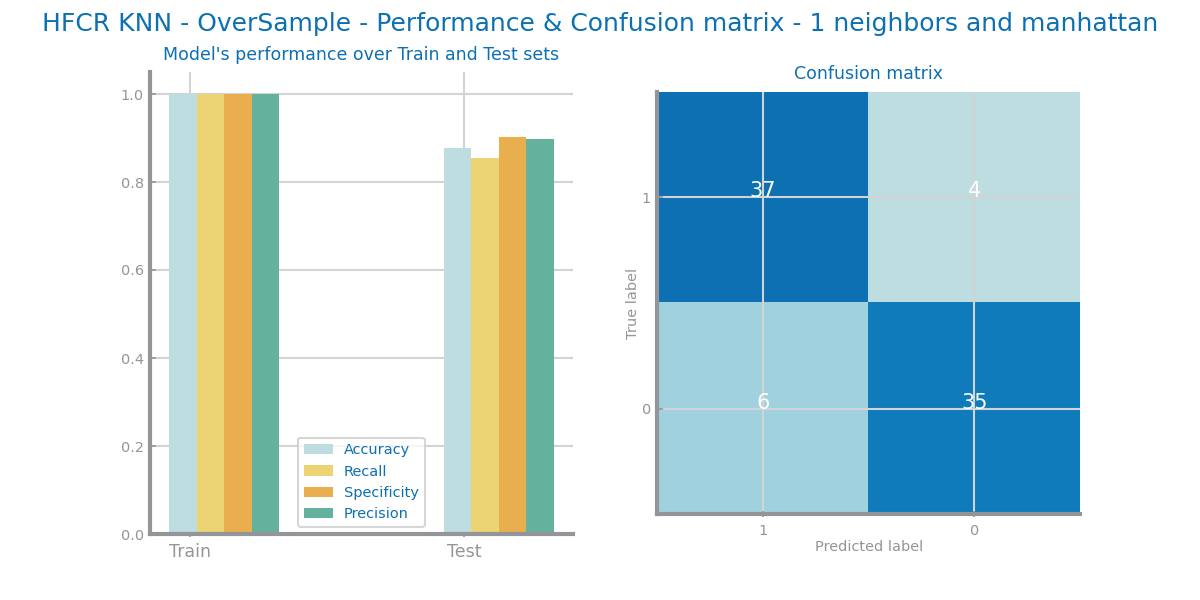
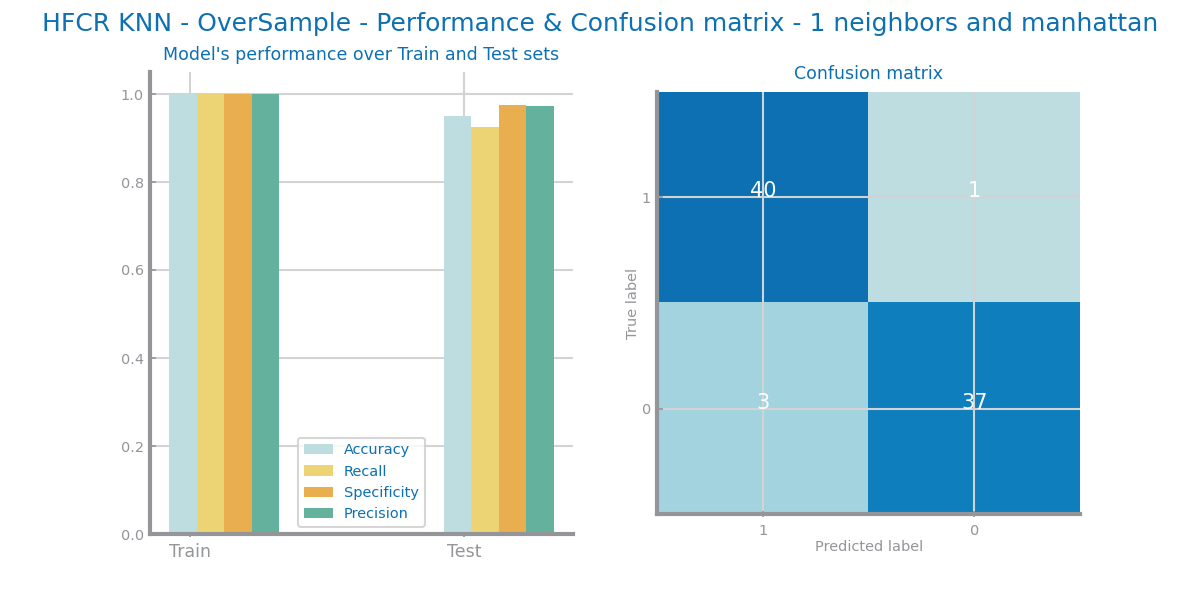
HFCR KNN feature selection

diff --git a/Labs/Lab05/HFCR_knn-treated.py b/Labs/Lab05/HFCR_knn-treated.py
@@ -9,6 +9,7 @@ from sklearn.impute import SimpleImputer
 from sklearn.neighbors import KNeighborsClassifier
 from sklearn.model_selection import StratifiedKFold
 from sklearn.preprocessing import StandardScaler
+from subprocess import call
 
 
 graphsDir = './Results/'
@@ -17,69 +18,77 @@ if not os.path.exists(graphsDir):
 
 data: pd.DataFrame = pd.read_csv('../../Dataset/heart_failure_clinical_records_dataset.csv')
 datas = prepfunctions.prepare_dataset(data, 'DEATH_EVENT', True, True)
+featured_datas = prepfunctions.mask_feature_selection(datas, 'DEATH_EVENT', False, './Results/HFCR Feature Selection - Features')
 
-for key, value in datas.items():
-    data = value
-    subDir = graphsDir + key + '/'
-    if not os.path.exists(subDir):
-        os.makedirs(subDir) 
+for key in datas:
+    for do_feature_eng in [False, True]:
+        if (do_feature_eng):
+            data = featured_datas[key]
+            subDir = graphsDir + 'FeatureEng/' +  key + '/'
+            if not os.path.exists(subDir):
+                os.makedirs(subDir)
+        else:
+            data = datas[key]
+            subDir = graphsDir + key + '/'
+            if not os.path.exists(subDir):
+                os.makedirs(subDir)
 
-    y: np.ndarray = data.pop('DEATH_EVENT').values
-    X: np.ndarray = data.values
-    labels = pd.unique(y)
-    
-    n_splits = 5
-    skf = StratifiedKFold(n_splits=n_splits, shuffle=True)
-    splitList = list(skf.split(X, y))
-
-    nvalues = [1, 3, 5, 7, 9, 11, 13, 15, 17, 19]
-    dist = ['manhattan', 'euclidean', 'chebyshev']
-    values = {}
-    best = (0, '')
-    last_best = 0
-    for d in dist:
-        yvalues = []
-        for n in nvalues:
-            best_iteration_train_accuracy = 0
-            best_iteration_accuracy = 0
-            for model in splitList:
-                knn = KNeighborsClassifier(n_neighbors=n, metric=d)
-                trnX = X[model[0]] 
-                trnY = y[model[0]]
-                tstX = X[model[1]]
-                tstY = y[model[1]]
-                knn.fit(trnX, trnY)
-                prdY = knn.predict(tstX)
-                prd_trainY = knn.predict(trnX)
-
-                iteration_accuracy = metrics.accuracy_score(tstY, prdY)
-                if iteration_accuracy > best_iteration_accuracy:
-                    best_iteration_accuracy = iteration_accuracy
-                    best_iteration_train_accuracy = metrics.accuracy_score(trnY, prd_trainY)
-                    model_sets = (trnX, trnY, tstX, tstY)
-            yvalues.append(best_iteration_accuracy)
-            if yvalues[-1] > last_best:
-                best = (n, d)
-                last_best = yvalues[-1]
-                best_model = tuple(model_sets)             
-    values[d] = yvalues
-
+        y: np.ndarray = data.pop('DEATH_EVENT').values
+        X: np.ndarray = data.values
+        labels = pd.unique(y)
         
-    plt.figure()
-    ds.multiple_line_chart(nvalues, values, title='KNN variants', xlabel='n', ylabel='accuracy', percentage=True)
-    plt.suptitle('HFCR KNN - ' + key + ' - parameters')
-    plt.savefig(subDir + 'HFCR KNN - ' + key + ' - parameters')
-    print('Best results with %d neighbors and %s'%(best[0], best[1]))
+        n_splits = 5
+        skf = StratifiedKFold(n_splits=n_splits, shuffle=True)
+        splitList = list(skf.split(X, y))
+
+        nvalues = [1, 3, 5, 7, 9, 11, 13, 15, 17, 19]
+        dist = ['manhattan', 'euclidean', 'chebyshev']
+        values = {}
+        best = (0, '')
+        last_best = 0
+        for d in dist:
+            yvalues = []
+            for n in nvalues:
+                best_iteration_train_accuracy = 0
+                best_iteration_accuracy = 0
+                for model in splitList:
+                    knn = KNeighborsClassifier(n_neighbors=n, metric=d)
+                    trnX = X[model[0]] 
+                    trnY = y[model[0]]
+                    tstX = X[model[1]]
+                    tstY = y[model[1]]
+                    knn.fit(trnX, trnY)
+                    prdY = knn.predict(tstX)
+                    prd_trainY = knn.predict(trnX)
+
+                    iteration_accuracy = metrics.accuracy_score(tstY, prdY)
+                    if iteration_accuracy > best_iteration_accuracy:
+                        best_iteration_accuracy = iteration_accuracy
+                        best_iteration_train_accuracy = metrics.accuracy_score(trnY, prd_trainY)
+                        model_sets = (trnX, trnY, tstX, tstY)
+                yvalues.append(best_iteration_accuracy)
+                if yvalues[-1] > last_best:
+                    best = (n, d)
+                    last_best = yvalues[-1]
+                    best_model = tuple(model_sets)             
+        values[d] = yvalues
+
+            
+        plt.figure()
+        ds.multiple_line_chart(nvalues, values, title='KNN variants', xlabel='n', ylabel='accuracy', percentage=True)
+        plt.suptitle('HFCR KNN - ' + key + ' - parameters')
+        plt.savefig(subDir + 'HFCR KNN - ' + key + ' - parameters')
+        print('Best results with %d neighbors and %s'%(best[0], best[1]))
 
 
-    trnX, trnY, tstX, tstY = best_model
-    clf = knn = KNeighborsClassifier(n_neighbors=best[0], metric=best[1])
-    clf.fit(trnX, trnY)
-    prd_trn = clf.predict(trnX)
-    prd_tst = clf.predict(tstX)
-    ds.plot_evaluation_results(pd.unique(y), trnY, prd_trn, tstY, prd_tst)
-    plt.suptitle('HFCR KNN - ' + key + ' - Performance & Confusion matrix - %d neighbors and %s'%(best[0], best[1]))
-    plt.savefig(subDir + 'HFCR KNN - ' + key + '- Performance & Confusion matrix')
+        trnX, trnY, tstX, tstY = best_model
+        clf = knn = KNeighborsClassifier(n_neighbors=best[0], metric=best[1])
+        clf.fit(trnX, trnY)
+        prd_trn = clf.predict(trnX)
+        prd_tst = clf.predict(tstX)
+        ds.plot_evaluation_results(pd.unique(y), trnY, prd_trn, tstY, prd_tst)
+        plt.suptitle('HFCR KNN - ' + key + ' - Performance & Confusion matrix - %d neighbors and %s'%(best[0], best[1]))
+        plt.savefig(subDir + 'HFCR KNN - ' + key + '- Performance & Confusion matrix')
 
-    plt.close("all")
+        plt.close("all")
 
